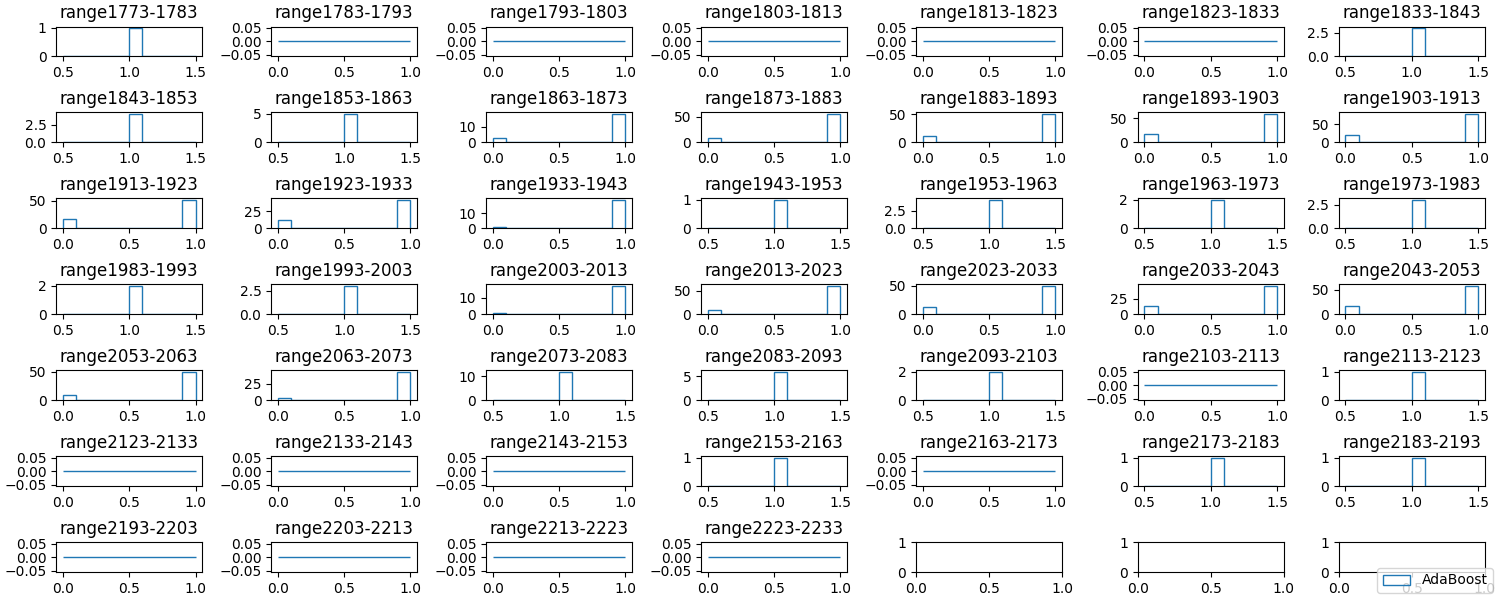
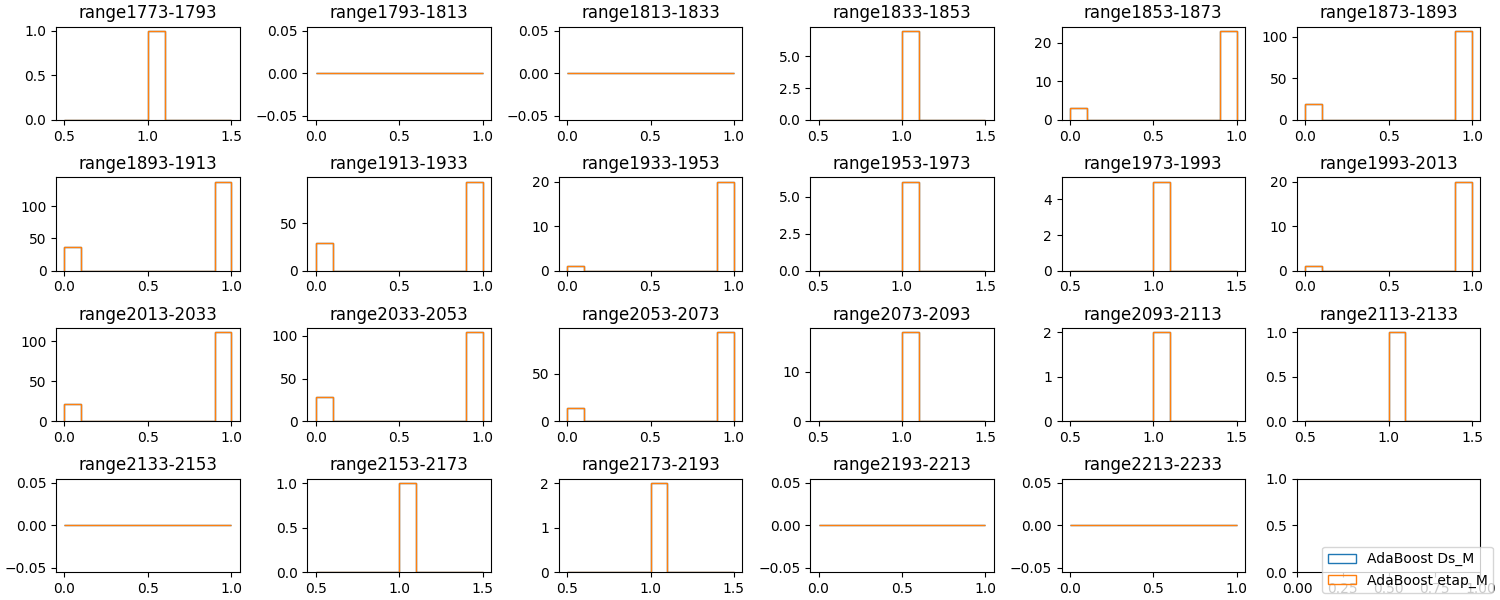
Correlation chnages

diff --git a/correlacion.py b/correlacion.py
@@ -36,9 +36,15 @@ minMass = min(mass)
 signal_d = pd.DataFrame(signal_d)
 background_d = pd.DataFrame(background_d)
 aux_s = dict()
+aux_s_e = dict()
+for i in range(int(minMass),int(maxMass) - 20,20):
+	aux_s['range'+str(i)+'-'+str(i+20)] = signal_d[(signal_d['Ds_M']>i) & (signal_d['Ds_M']<i+20)]
+mass = set_aux['X_test']['etap_M']
+maxMass = max(mass)
+minMass = min(mass)
 for i in range(int(minMass),int(maxMass) - 10,10):
-	aux_s['range'+str(i)+'-'+str(i+10)] = signal_d[(signal_d['Ds_M']>i) & (signal_d['Ds_M']<i+10)]			
-fig, axs = plt.subplots(7, 7, figsize=(15, 6), constrained_layout=True, facecolor='w', edgecolor='k')
+	aux_s_e['range'+str(i)+'-'+str(i+10)] = signal_d[(signal_d['etap_M']>i) & (signal_d['etap_M']<i+10)]			
+fig, axs = plt.subplots(4, 6, figsize=(15, 6), constrained_layout=True, facecolor='w', edgecolor='k')
 i = 0
 
 axs = axs.ravel()
@@ -48,11 +54,25 @@ for m in aux_s:
 		continue
 	for k in signal_d.keys():
 		if k != 'Ds_M' and k != 'etap_M':			
-			axs[i].hist(aux_s[m][k],histtype='step',label=k)
+			axs[i].hist(aux_s[m][k],histtype='step',label=k+" Ds_M")
+			axs[i].set_title(m)
+			handles, labels = axs[i].get_legend_handles_labels()			
+	i+=1
+fig.legend(handles, labels, loc='lower right')
+fig.savefig("Ds_M.png")		
+plt.show()			
+fig, axs = plt.subplots(4, 5, figsize=(15, 6), constrained_layout=True, facecolor='w', edgecolor='k')
+i = 0
+axs = axs.ravel()
+for m in aux_s_e:
+	if not bool(m) :
+		continue
+	for k in signal_d.keys():
+		if k != 'Ds_M' and k != 'etap_M':			
+			axs[i].hist(aux_s_e[m][k],histtype='step',label=k+" etap_M")
 			axs[i].set_title(m)
 			handles, labels = axs[i].get_legend_handles_labels()			
 	i+=1	
-
 fig.legend(handles, labels, loc='lower right')
-fig.savefig("intento2.png")		
+fig.savefig("etap_M.png")		
 plt.show()		
